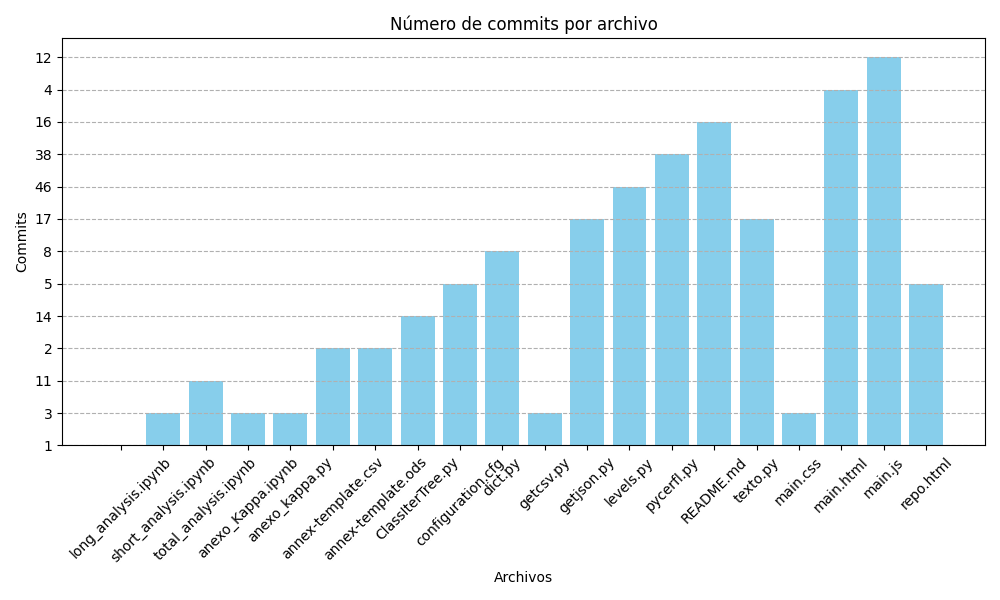
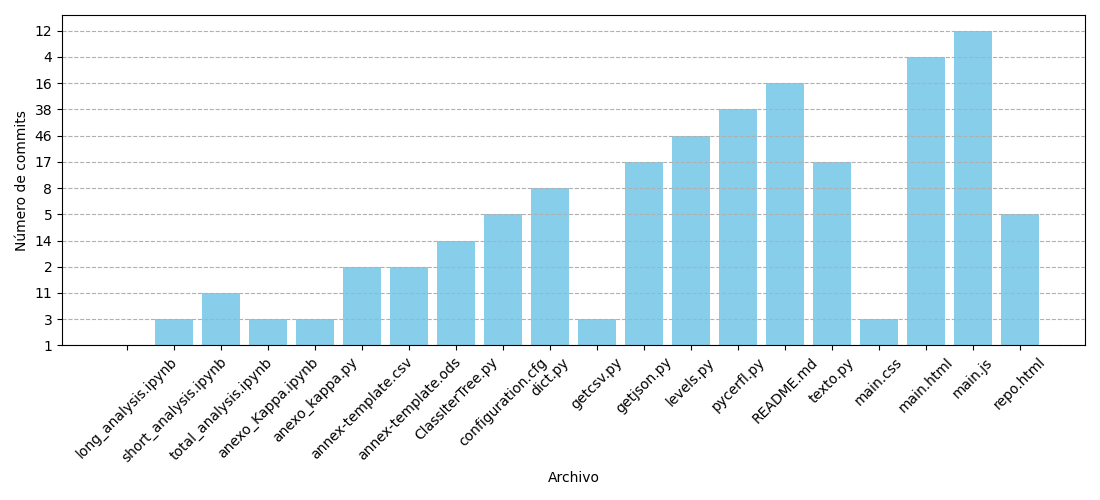
plt.pie

diff --git a/index.html b/index.html
@@ -13,14 +13,14 @@
 
 <div class="container">
     <ul>
-        <li><b>Lenguajes utilizados</b></li>
+        <li><b>Análisis de lenguajes utilizados en el repositorio</b></li>
             <img class="graphs" src="Language_graph.png" alt="Language_graph">
     </ul>
 </div>
 
 <div class="container">
     <ul>
-        <li><b>Número de commits de cada archivo</b></li>
+        <li><b>Análisis de actividad de cada fichero</b></li>
             <img class="graphs" src="Commits_graph.png" alt="Commits_graph">
     </ul>
 </div>

diff --git a/graphics_files.py b/graphics_files.py
@@ -1,5 +1,6 @@
 import pyodbc
 import matplotlib.pyplot as plt
+from collections import Counter
 
 
 SERVER = 'LAPTOP-E26LIVT1\SQLEXPRESS'
@@ -32,23 +33,27 @@ def language_graph(cursor):
     cursor.execute(f'SELECT Language FROM {TABLE}')
 
     languages = []
-    percentages = []
+    tuples_counter = []
     for row in cursor:
         languages.append(row.Language)
 
-    for atribute in languages:
-        count_atr = languages.count(atribute)
-        percentage_atr = (count_atr / len(languages)) * 100
-        percentages.append(percentage_atr)
+    conteo = Counter(languages)
+    tuples_counter = tuple(conteo.items())
+
+    label = [item[0] for item in tuples_counter]
+    value = [item[1] for item in tuples_counter]
+
 
     plt.figure(figsize=(10, 6))
-    plt.bar(languages, percentages, color='skyblue')
-    plt.title('Lenguajes utilizados en el repositorio [%]')
-    plt.xlabel('Lenguajes')
-    plt.ylabel('%')
-    plt.grid(axis='y', linestyle='--')
-    plt.xticks(rotation=45)
-    plt.tight_layout()
+    pie_result = plt.pie(value, labels=label, autopct="%0.1f %%", shadow = True)
+
+    for item in pie_result[1]:
+        item.set_fontsize(12)
+
+    for percentage in pie_result[2]:
+        percentage.set_fontsize(12)
+
+    plt.axis('equal') 
     plt.savefig('Language_graph.png')
 
 
@@ -57,12 +62,12 @@ def commits_graph(cursor):
 
     tuples = cursor.fetchall()
 
-    plt.figure(figsize=(10, 6))
+    plt.figure(figsize=(11, 5))
     for atribute in tuples:
         plt.bar(str(atribute[0]), str(atribute[1]), color='skyblue')
-    plt.title('Número de commits por archivo')
-    plt.xlabel('Archivos')
-    plt.ylabel('Commits')
+    #plt.title('Cantidad de commits por archivo')
+    plt.xlabel('Archivo')
+    plt.ylabel('Número de commits')
     plt.grid(axis='y', linestyle='--')
     plt.xticks(rotation=45)
     plt.tight_layout()
